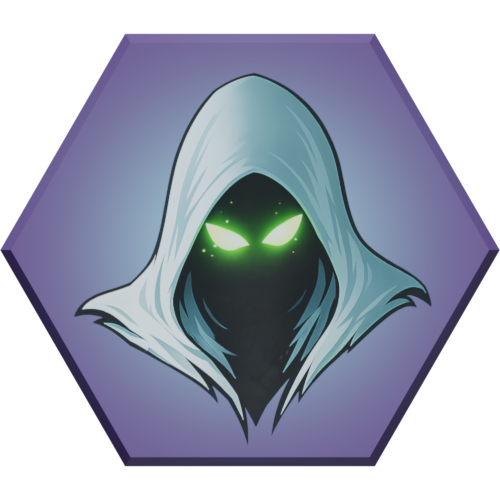
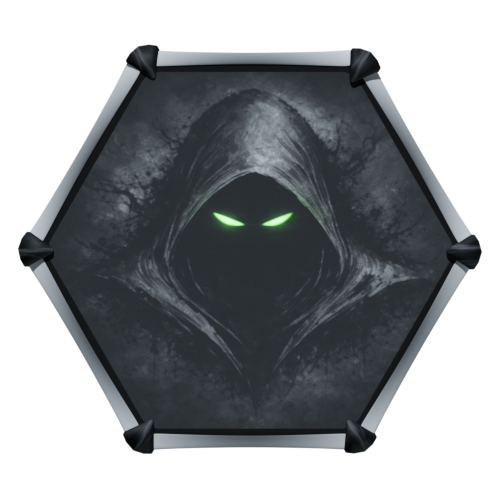
update game style from color to grey

diff --git a/src/a-game-scenes/homeland-scene/components/tool-hex-tile.vue b/src/a-game-scenes/homeland-scene/components/tool-hex-tile.vue
@@ -54,7 +54,12 @@ const posStyle = computed(() => {
   const pseudoTile = { coordinates: props.coord } as any;
   const { x, y } = calcHexPixelPosition(pseudoTile, props.tileWidth);
 
-  return { transform: `translate(${x}px, ${y}px)` } as Record<string, string>;
+  const ix = Math.round(x);
+  const iy = Math.round(y);
+
+  return {
+    transform: `translate(${ix}px, ${iy}px)`
+  };
 });
 
 const hoveredTile = computed(() => {
@@ -136,8 +141,6 @@ const toolClass = computed(() => (props.tool === "axe" ? "axe" : "hand"));
       0% 50%
   );
 
-  /* плавне “стрибаюче” прилипання */
-
 
   z-index: 120;
   pointer-events: auto;
@@ -147,14 +150,14 @@ const toolClass = computed(() => (props.tool === "axe" ? "axe" : "hand"));
 }
 
 .tool-hex-tile.hand {
-  background-image: url("@/assets/tools-assets/hand-hex-image.png");
+  background-image: url("@/assets/hexs/terrain-hexs/hand-hex-image.png");
   background-size: cover;
   background-position: center;
   background-repeat: no-repeat;
 }
 
 .tool-hex-tile.axe {
-  background-image: url("@/assets/tools-assets/axe-hex-image.png");
+  background-image: url("@/assets/hexs/terrain-hexs/axe-hex-image.png");
   background-size: cover;
   background-position: center;
   background-repeat: no-repeat;
@@ -162,7 +165,6 @@ const toolClass = computed(() => (props.tool === "axe" ? "axe" : "hand"));
 
 .hide-btn {
   opacity: 0;
-  transform: scale(0.95);
   pointer-events: none;
 
   width: 64px;
@@ -182,7 +184,6 @@ const toolClass = computed(() => (props.tool === "axe" ? "axe" : "hand"));
 
 .tool-hex-tile:hover .hide-btn {
   opacity: 1;
-  transform: scale(1);
   pointer-events: auto;
 }
 
@@ -284,7 +285,9 @@ const toolClass = computed(() => (props.tool === "axe" ? "axe" : "hand"));
   height: var(--hex-tile-height);
   pointer-events: auto;
 
-  transition: transform 150ms ease-out;
+  transition: transform 120ms linear; /* linear краще за ease */
+  will-change: transform;
+  transform: translateZ(0);
 }
 
 .tool-hex-tile.doing{

diff --git a/src/game-prototypes/hexobject-prototypes.ts b/src/game-prototypes/hexobject-prototypes.ts
@@ -17,7 +17,7 @@ export const HEX_OBJECT_PROTOTYPES: Record<THexobjectKey, THexobjectPrototype> =
             },
         },
         collision: EHexCollision.SOLID,
-        spritePath: 'src/a-game-scenes/homeland-scene/assets/hex-tile-terrain-images/tree-hex-image.png',
+        spritePath: 'src/assets/hexs/terrain-hexs/tree-hex-image.png',
     },
 
     [HEXOBJECT_KEYS.COIN]: {
@@ -65,7 +65,7 @@ export const HEX_OBJECT_PROTOTYPES: Record<THexobjectKey, THexobjectPrototype> =
             faction: "enemy"
         },
         collision: EHexCollision.SOLID,
-        spritePath: 'src/assets/enemy-assets/boss-hex-images/skeletor-hex-image.png',
+        spritePath: 'src/assets/hexs/terrain-hexs/skeletor-hex-image.png',
     },
 
     [HEXOBJECT_KEYS.AXE]: {
@@ -79,7 +79,7 @@ export const HEX_OBJECT_PROTOTYPES: Record<THexobjectKey, THexobjectPrototype> =
             capabilities: { canCut: true },
         },
         collision: EHexCollision.NONE,
-        spritePath: 'src/assets/tools-assets/axe-hex-image.png',
+        spritePath: 'src/assets/hexs/terrain-hexs/axe-hex-image.png',
     },
 
     [HEXOBJECT_KEYS.CAMPING]: {
@@ -91,6 +91,6 @@ export const HEX_OBJECT_PROTOTYPES: Record<THexobjectKey, THexobjectPrototype> =
             integrity: 1000
         },
         collision: EHexCollision.OVERLAY,
-        spritePath: 'src/a-game-scenes/homeland-scene/assets/hex-tile-terrain-images/camping-hex-image.png',
+        spritePath: 'src/assets/hexs/terrain-hexs/camping-hex-image.png',
     },
 };

diff --git a/src/a-game-scenes/homeland-scene/components/hex-tile.vue b/src/a-game-scenes/homeland-scene/components/hex-tile.vue
@@ -112,17 +112,24 @@ function getHexTileBackgroundStyle(tile: IHexTile) {
   justify-content: center;
 
   cursor: pointer;
-  transform-origin: center center;
-  will-change: transform;
-
-  transform: translate(var(--tx), var(--ty)) scale(var(--hex-scale, 1));
-
-  transition: transform 0.16s ease;
+  transform: translate(var(--tx), var(--ty));
 }
 
-.hex-tile:hover {
-  --hex-scale: 1.02;
-  z-index: 50;
+.hex-tile::before {
+  content: "";
+  position: absolute;
+  inset: 0;
+  clip-path: inherit;
+  pointer-events: none;
+
+  /* “скло” — холодний напівпрозорий шар */
+  background: linear-gradient(
+      145deg,
+      rgba(220, 235, 255, 0.18),
+      rgba(140, 170, 210, 0.10)
+  );
+
+  opacity: 0.45;
 }
 
 .tool-target-glow {
@@ -188,9 +195,7 @@ function getHexTileBackgroundStyle(tile: IHexTile) {
 }
 
 .hex-tile-bg {
-  image-rendering: smooth;
   z-index: 1;
-  scale: 1.03;
   transition: filter 0.16s ease, transform 0.16s ease;
   will-change: filter, transform;
   transform: translateZ(0);
@@ -205,10 +210,17 @@ function getHexTileBackgroundStyle(tile: IHexTile) {
 .hexobject-sprite {
   z-index: 2;
   pointer-events: none;
+
+  transform: scale(1);
+  transition: transform 120ms ease-out, filter 120ms ease-out;
+
+  image-rendering: crisp-edges;
+  will-change: transform;
 }
 
-.hex-tile:hover .hex-tile-bg {
-  filter: brightness(1) contrast(1.02);
+.hex-tile:hover .hexobject-sprite {
+  transform: scale(1.1);
+  filter: contrast(1.02);
 }
 
 </style>

diff --git a/src/utils/world-generator.ts b/src/utils/world-generator.ts
@@ -7,6 +7,7 @@ import {HexObjectFactory} from "@/factory/hex-object-factory";
 import {AddResourceSpawnerFeature} from "@/features/resource-features/add-resource-spawner-feature";
 
 export class WorldGenerator {
+    private readonly terrainHexImgPath = 'src/assets/hexs/terrain-hexs/no.png'
     constructor(private readonly generator: IWorldGenerator) {}
 
     generate(): HexMapModel {
@@ -36,7 +37,7 @@ export class WorldGenerator {
                 const hex: HexTileModel = new HexTileBuilder()
                     .type("empty")
                     .isRevealed(false)
-                    .hexBackgroundImagePath("src/a-game-scenes/homeland-scene/assets/hex-tile-terrain-images/ground-hex-image.png")
+                    .hexBackgroundImagePath(this.terrainHexImgPath)
                     .coordinates({ columnIndex: q, rowIndex: r })
                     .build();
 
@@ -90,7 +91,7 @@ export class WorldGenerator {
             tile.tileType = "empty";
             tile.tileKey = null;
             tile.description = "Nothing around";
-            tile.imagePath = "src/a-game-scenes/homeland-scene/assets/hex-tile-terrain-images/empty-tile-image.png";
+            tile.imagePath = this.terrainHexImgPath;
         }
     }
 }

diff --git a/src/a-game-scenes/inventory-scene/components/hero-inventory-overlay.vue b/src/a-game-scenes/inventory-scene/components/hero-inventory-overlay.vue
@@ -223,14 +223,14 @@ function useSelectedTool() {
 }
 
 .hex-tile.hand {
-  background-image: url("@/assets/tools-assets/hand-hex-image.png");
+  background-image: url("@/assets/hexs/terrain-hexs/hand-hex-image.png");
   background-size: cover;
   background-position: center;
   background-repeat: no-repeat;
 }
 
 .hex-tile.axe {
-  background-image: url("@/assets/tools-assets/axe-hex-image.png");
+  background-image: url("@/assets/hexs/terrain-hexs/axe-hex-image.png");
   background-size: cover;
   background-position: center;
   background-repeat: no-repeat;

diff --git a/src/a-game-scenes/homeland-scene/components/hex-world-map.vue b/src/a-game-scenes/homeland-scene/components/hex-world-map.vue
@@ -163,7 +163,7 @@ onBeforeUnmount(() => {
   place-items: center;
   width: 100svw;
   height: 100svh;
-  background-image: url("@/a-game-scenes/homeland-scene/assets/game-board.png");
+  background-image: url("@/a-game-scenes/homeland-scene/assets/dark-board-stones.png");
   background-size: 100% 100%;
   background-position: center;
   background-repeat: no-repeat;
